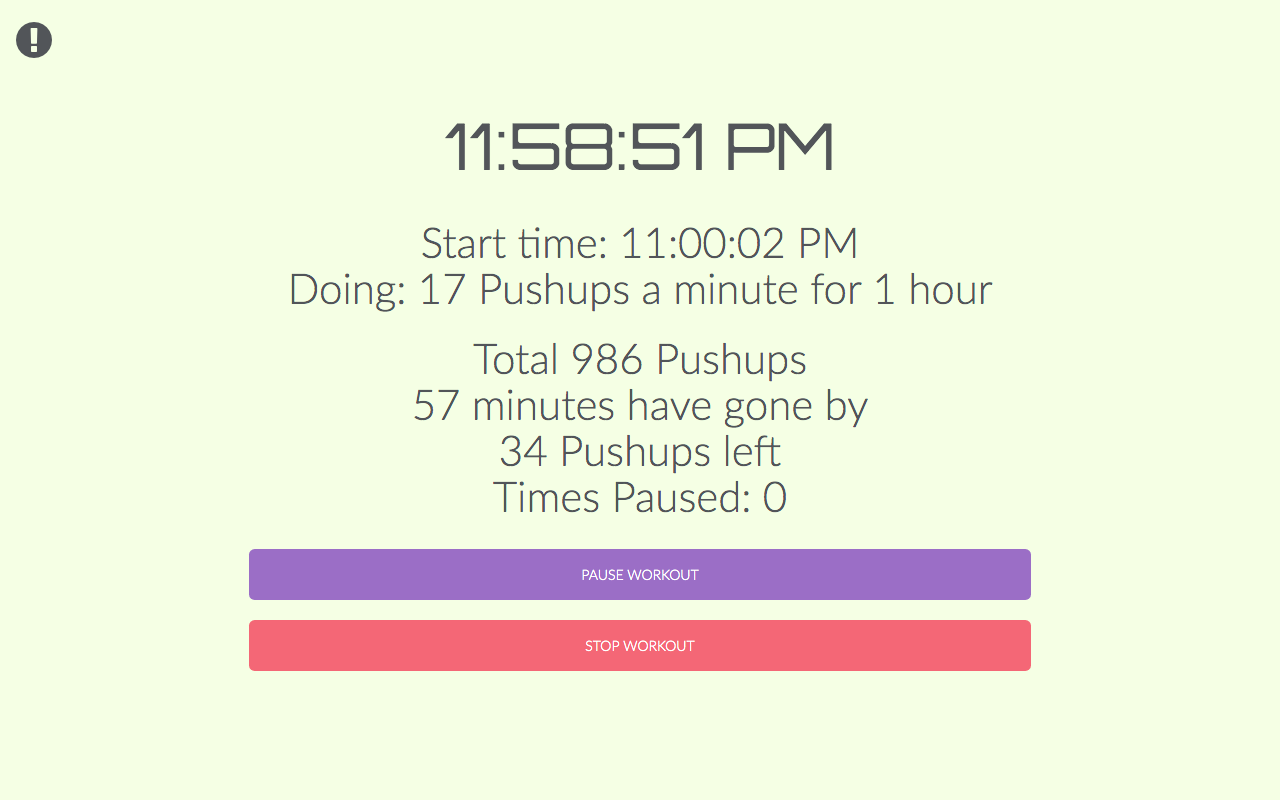
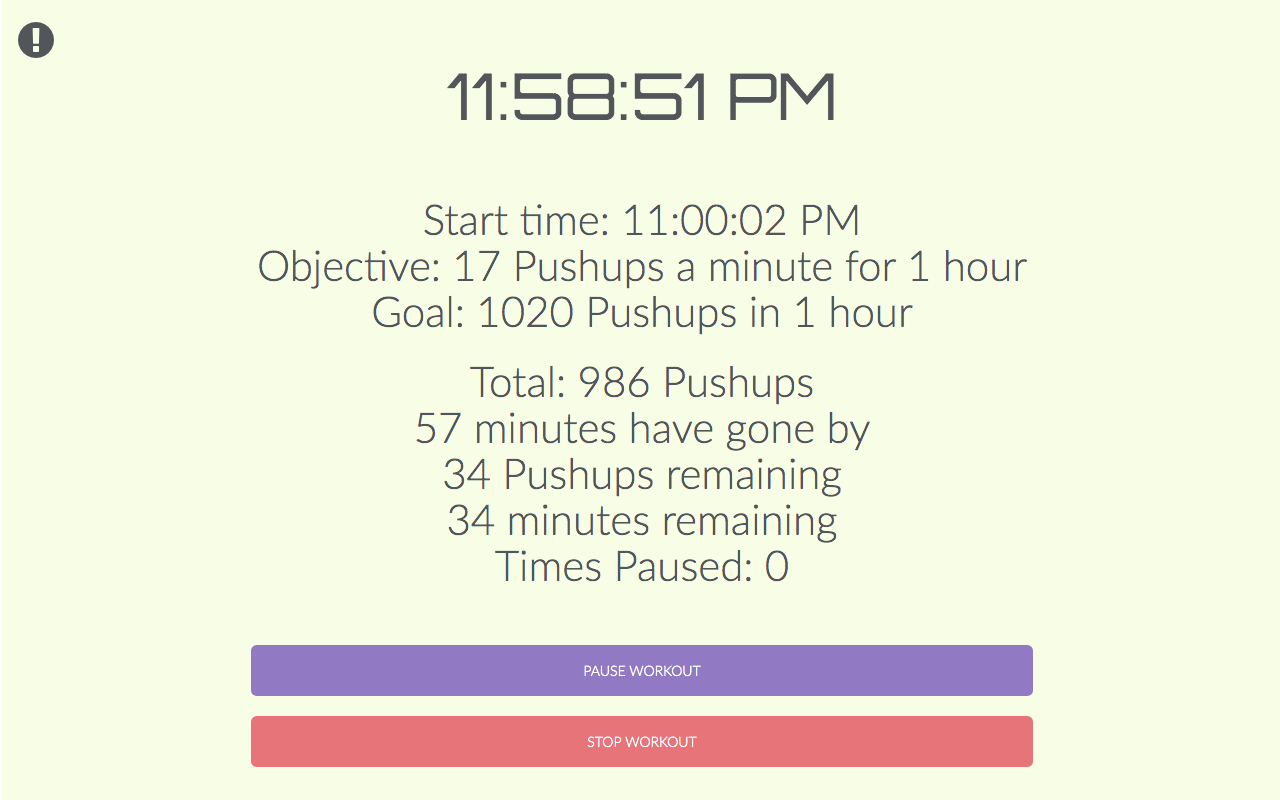
Display goal and updated screenshots

Changed region(s): [[0.1875, 0.25, 0.8125, 0.9688], [0.3438, 0.0938, 0.6562, 0.2188], [0.0, 0.0312, 0.0312, 0.0625]]

diff --git a/js/script.js b/js/script.js
@@ -32,6 +32,9 @@ var counter = 1, countPause = 1, chosenDifficulty,
       audioElement.play();
     },
     newWorkout       = function() {
+      // Make sure timer has already been stopped
+      clearTimeout(runTimer);
+      
       // Reset to no file saved for new workout log
       fileSaved = "nope";
       
@@ -121,7 +124,7 @@ $("#repspermin, #howmanyhours").on("keyup change", function() {
   
   if ($("#repspermin").val() && $("#howmanyhours").val()) {
     $("[data-confirm=workoutparameters]").show();
-    $("[data-calculate=reps]").text(totalhours * 60 * pullupspermin);
+    $("[data-calculate=reps], [data-calculate=goal]").text(totalhours * 60 * pullupspermin);
   } else {
     $("[data-confirm=workoutparameters]").hide();
   }
@@ -206,7 +209,7 @@ $("[data-confirm=workoutparameters]").click(function() {
   $("[data-action=randomize]").fadeOut(250);
   $("[data-display=startworkout]").fadeIn(250);
   $("[data-countdown=reps]").text(totalhours * 60 * pullupspermin);
-  $("[data-count=minutes]").text("0");
+  $("[data-count=minutes]").text("0 minutes have");
   startWorkout();
   goSound();
 });

diff --git a/index.html b/index.html
@@ -162,6 +162,9 @@
                 </h1>
                 <h1 class="center headline-primary--grouped">
                   Objective: <span data-output="repspermin"></span> <span data-output="workouttype" style="text-transform: capitalize;"></span> a minute for <span data-output="howmanyhours"></span>
+                </h1>
+                <h1 class="center headline-primary--grouped">
+                  Goal: <span data-calculate="goal">?</span> <span data-output="workouttype" style="text-transform: capitalize;"></span> in <span data-output="howmanyhours"></span>
                 </h1><br>
                 
                 <h1 class="center headline-primary--grouped">
